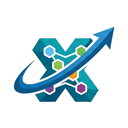
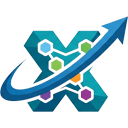
new toast helper and process changes with the screenshots removed from Readme

diff --git a/src/library/boomiapp/content/toastHelper.js b/src/library/boomiapp/content/toastHelper.js
@@ -1,0 +1,34 @@
+/**
+ * Shared toast notification utility.
+ *
+ * USAGE:
+ *   showToast("Settings saved.", 3000);           // default (green) toast, 3s
+ *   showToast("Error occurred.", 5000, "error");  // red error toast, 5s
+ *
+ * Available in content scripts (via bundle) and the options page (via <script> tag).
+ * Do not write inline toast HTML or use alert().
+ */
+
+function showToast(message, duration, type) {
+  duration = duration || 3000;
+  var container = document.getElementById("bph-toast-container");
+  if (!container) {
+    container = document.createElement("div");
+    container.id = "bph-toast-container";
+    container.style.cssText = "position:fixed;top:1rem;right:1rem;z-index:99999;";
+    document.body.appendChild(container);
+  }
+
+  var toast = document.createElement("div");
+  toast.className = "bph-toast";
+  if (type === "error") toast.classList.add("bph-toast-error");
+  toast.innerHTML = message;
+  container.appendChild(toast);
+
+  requestAnimationFrame(function () { toast.classList.add("show"); });
+
+  setTimeout(function () {
+    toast.classList.remove("show");
+    setTimeout(function () { toast.remove(); }, 300);
+  }, duration);
+}

diff --git a/src/library/boomiapp/options.js b/src/library/boomiapp/options.js
@@ -37,29 +37,6 @@ function updateDirtyIndicator() {
 document.addEventListener("change", updateDirtyIndicator);
 document.addEventListener("input", updateDirtyIndicator);
 
-function showToast(message, duration) {
-  duration = duration || 3000;
-  var container = document.getElementById("toast-container");
-  var toast = document.createElement("div");
-  toast.className = "toast-popup";
-  toast.innerHTML = message;
-  container.appendChild(toast);
-  requestAnimationFrame(function () { toast.classList.add("show"); });
-  setTimeout(function () {
-    toast.classList.remove("show");
-    setTimeout(function () { toast.remove(); }, 300);
-  }, duration);
-}
-
-function save_options() {
-  var options = getFormState();
-  chrome.storage.sync.set(options, function () {
-    SAVED_STATE = getFormState();
-    updateDirtyIndicator();
-    showToast("<strong>Saved!</strong> Reload the Boomi platform tab for changes to take effect.");
-  });
-}
-
 function restore_options() {
   var defaults = {};
   document.querySelectorAll(".option").forEach(function (el) {
@@ -109,6 +86,15 @@ function reset_defaults() {
   });
   updateDirtyIndicator();
   showToast("<strong>Defaults restored.</strong> Click Save to apply.", 4000);
+}
+
+function save_options() {
+  var options = getFormState();
+  chrome.storage.sync.set(options, function () {
+    SAVED_STATE = getFormState();
+    updateDirtyIndicator();
+    showToast("<strong>Saved!</strong> Reload the Boomi platform tab for changes to take effect.");
+  });
 }
 
 document.addEventListener("DOMContentLoaded", restore_options);

diff --git a/src/library/boomiapp/content/global.js b/src/library/boomiapp/content/global.js
@@ -64,26 +64,9 @@ function getGWTPageName() {
 }
 
 function showInformationAlertDialog(message) {
-  var informationAlertDialog =
-    `<div class="gwt-PopupPanel oops_message_panel informationAlertDialog"
-  style="visibility: visible; position: absolute; clip: rect(auto, auto, auto, auto); bottom: 40px; overflow: visible;">
-  <div class="popupContent bph-load-done">
-      <div class="qm-c-alert qm-c-alert--info"><span class="qm-c-alert__icon"><img
[1 lines of base64/hex data omitted]
-                  alt="Information"></span>
-                  <div class="qm-c-alert__text">` +
-    message +
-    `</div>
-      </div>
-  </div>
-  </div>`;
-
-  $("#mastfoot").append(informationAlertDialog);
   $(".context_menu").remove();
   $(".context_menu_glass").remove();
-  setTimeout(() => {
-    $(".informationAlertDialog").remove();
-  }, 3000);
+  showToast(message, 3000);
 }
 
 function fancyTimeFormat(duration) {

diff --git a/src/library/css/boomi.css b/src/library/css/boomi.css
@@ -518,8 +518,7 @@ small.helper { display: block; color: #6c757d; margin-top: 0.25rem; margin-botto
 .btn-reset { border: 1px solid #dee2e6; background: #fff; color: #6c757d; white-space: nowrap; }
 .btn-reset:hover { background: #f8d7da; border-color: #dc3545; color: #dc3545; }
 
-/* Options page toast */
-.toast-container { position: fixed; top: 1rem; right: 1rem; z-index: 9999; }
-.toast-popup { background: #198754; color: #fff; padding: 0.75rem 1.25rem; border-radius: 6px; box-shadow: 0 4px 12px rgba(0,0,0,0.15); margin-bottom: 0.5rem; display: flex; align-items: center; gap: 0.5rem; font-size: 0.9rem; animation: toastIn 0.3s ease-out; opacity: 0; transform: translateX(100%); transition: opacity 0.3s, transform 0.3s; }
-.toast-popup.show { opacity: 1; transform: translateX(0); }
-@keyframes toastIn { from { opacity: 0; transform: translateX(100%); } to { opacity: 1; transform: translateX(0); } }
+/* Toast notifications */
+.bph-toast { background: #198754; color: #fff; padding: 0.75rem 1.25rem; border-radius: 6px; box-shadow: 0 4px 12px rgba(0,0,0,0.15); margin-bottom: 0.5rem; display: flex; align-items: center; gap: 0.5rem; font-size: 0.9rem; opacity: 0; transform: translateX(100%); transition: opacity 0.3s, transform 0.3s; }
+.bph-toast.show { opacity: 1; transform: translateX(0); }
+.bph-toast-error { background: #dc3545; }

diff --git a/src/library/boomiapp/content/updateNotification.js b/src/library/boomiapp/content/updateNotification.js
@@ -23,6 +23,7 @@ function updateNotificationCheck() {
     }
   }
 
+  //Add Notification Details HERE!
   function updateNotificationAlert() {
     var changelog = [
       "Bugfix: Fixed an issue where the icon overrides stopped working in Chrome.",
@@ -36,10 +37,10 @@ function updateNotificationCheck() {
     let updateHtml = renderBoomiModal({
       overlayClass: "BoomiUpdateOverlay",
       body:
-        '<h1>Boomi Platform Enhancer Extension Updates</h1>' +
-        '<p>Check out the following new features and or bug fixes for the Boomi Platform Enhancer Extension:</p>' +
+        '<h1>BoomiXcel Extension Updates</h1>' +
+        '<p>Explore the latest additions to the BoomiXcel Extension, including new features and bug fixes:</p>' +
         htmlUpdateContents +
-        '<p>For more detail on what each feature does and how to use it visit the <a href="https://github.com/matt-flaig/Boomi-Platform-Extension/wiki" target="_blank">Extension Wiki</a></p>',
+        '<p>For more information about the BoomiXcel Extension, visit the <a href="https://github.com/mitchelljfranklin/BoomiXcel" target="_blank">Extensions GitHub page</a>.</p>',
       buttons: [{ id: "closeUpdate", className: "gwt-Button", text: "Close" }],
     });
 

diff --git a/src/options.html b/src/options.html
@@ -128,8 +128,8 @@
                     <button id="reset" type="button" class="btn btn-reset fw-bold" title="Reset all options to defaults">&#8634; Reset</button>
                 </div>
             </form>                                         
-            <div class="toast-container" id="toast-container"></div>                                         
         </div>
+        <script src="library/boomiapp/content/toastHelper.js"></script>
         <script src="library/boomiapp/options.js"></script>         
     </body>     
 </html>

diff --git a/scripts/build.js b/scripts/build.js
@@ -14,6 +14,7 @@ const CONTENT_ORDER = [
   "global.js",
   "svgAssets.js",
   "modalHelper.js",
+  "toastHelper.js",
   "pageInit.js",
   "favicon.js",
   "headerActions.js",

diff --git a/README.md b/README.md
@@ -117,28 +117,6 @@
 
 <p align="right"><sub><a href="#contents">↑ Back to top</a></sub></p>
 
----
-
-## Screenshots
-
-<p align="center">
-  <img src="WebStore%20images/Image1.png" alt="Build canvas with enhanced shape palette, trace path highlighting, and endpoint glow" width="700">
-  <br /><sub>🎨 Build canvas — enhanced shape palette, trace path highlighting, and endpoint glow</sub>
-</p>
-
-<p align="center">
-  <img src="WebStore%20images/Image2.png" alt="Extension options panel" width="700">
-  <br /><sub>⚙️ Extension options — toggle features, set refresh intervals, and configure shortcuts</sub>
-</p>
-
-<p align="center">
-  <img src="WebStore%20images/Image3.png" alt="Process reporting with auto-refresh and table wrap" width="700">
-  <br /><sub>📊 Process reporting — custom auto-refresh, table text wrapping, and collapse-all-folders</sub>
-</p>
-
-<p align="right"><sub><a href="#contents">↑ Back to top</a></sub></p>
-
----
 
 ## Installing
 
@@ -262,6 +240,7 @@ Three storage backends are used:
 - **Human-readable source code** — all `.js`, `.css`, and `.html` files in `src/` must be written in a human-readable format, whether hand-written or AI-generated. Minification happens only at build time via esbuild — never commit minified or obfuscated source code.
 - **CSS convention** — all styling goes in `library/css/boomi.css`. Never use inline `style=""` attributes, `element.style.*` in JS, or `<style>` blocks. Use classes (`element.classList.add`/`remove`) and define the rules in `boomi.css`. This applies to every file — options page, content scripts, everything.
 - **Modal dialogs** — use `renderBoomiModal()` from `content/modalHelper.js` for all Boomi-style notification and dialog modals. Do not write inline modal HTML.
+- **Toast notifications** — use `showToast()` from `content/toastHelper.js` for transient notifications. Available everywhere. Do not write inline toast HTML or use `alert()`.
 - **Options page form contract** — every form control on `options.html` must have both `class="option"` and a `name` attribute. `options.js` discovers controls via `.option` and uses `name` as the `chrome.storage.sync` key. New toggles also need a corresponding key read in `listenerGlobal.js`. Each control should have a `data-default` attribute for the Reset button. On/off options use toggle switches (`.toggle-switch` checkboxes) serialized as `"on"`/`"off"` strings.
 - **Options page CSS** — all options page styling lives in `library/css/boomi.css` under `/* Options page */`. Never add inline `<style>` blocks or `style=""` attributes to `options.html`, and never set element styles in `options.js`. The options page loads `boomi.css` in its `<head>`.
 - **arrive.js cleanup** — scripts using `document.arrive()` on a reusable selector should call `document.unbindArrive(selector)` after the first match to prevent duplicate handlers
@@ -275,7 +254,7 @@ Load the extension unpacked from `src/` in `chrome://extensions` (Developer Mode
 ### Script reference
 
 <details>
-<summary>📂 <b>Click to expand — full script reference (39 files)</b></summary>
+<summary>📂 <b>Click to expand — full script reference (40 files)</b></summary>
 
 | Script | Context | Purpose |
 |---|---|---|
@@ -313,6 +292,7 @@ Load the extension unpacked from `src/` in `chrome://extensions` (Developer Mode
 | `content/brandLogo.js` | content | Replaces the Boomi masthead brand logo |
 | `content/svgAssets.js` | content | Shared SVG icon strings |
 | `content/modalHelper.js` | content | Boomi-style modal dialog helper |
+| `content/toastHelper.js` | content | Toast notification utility |
 | `page/fullscreen.js` | page | Full-screen toggle (page context required) |
 | `options.js` | options | Options page save/restore |
 | `background.js` | background | Service worker: download rename + options-page-open message |

diff --git a/AGENTS.md b/AGENTS.md
@@ -122,6 +122,7 @@ document.arrive(".qm-c-servicenav", function (nav) {
 | `content/brandLogo.js` | content | Replaces the Boomi masthead brand logo with a custom image (reads BoomiPlatform config) |
 | `content/svgAssets.js` | content | Shared SVG icon strings used across multiple content scripts |
 | `content/modalHelper.js` | content | Shared Boomi-style modal dialog renderer and cleanup utilities |
+| `content/toastHelper.js` | content | Shared toast notification utility used across content scripts and the options page |
 | `page/fullscreen.js` | page | Full-screen toggle via keyboard shortcut (page context required) |
 | `options.js` | (options page) | Options page save/restore logic |
 | `background.js` | background | MV3 service worker: handles download renaming and options-page-open message |
@@ -181,6 +182,8 @@ All CSS rules **must** be added to `library/css/boomi.css`. Do **not**:
 If JavaScript needs to apply a style, add or remove a **class** (`element.classList.add` / `remove`) and define the style for that class in `boomi.css`. This keeps all visual rules in one auditable place and avoids CSP issues with inline styles in content scripts.
 
 **Modal dialogs** — all Boomi-style modal/notification dialogs must use `renderBoomiModal()` from `content/modalHelper.js`. Do not write inline modal HTML. See the JSDoc in `modalHelper.js` for parameter documentation.
+
+**Toast notifications** — use `showToast(message, duration, type)` from `content/toastHelper.js` for transient notifications. Available in content scripts (via bundle) and the options page (via direct `<script>` tag). Do not write inline toast HTML or use `alert()`.
 
 ## No linter / formatter / test suite
 